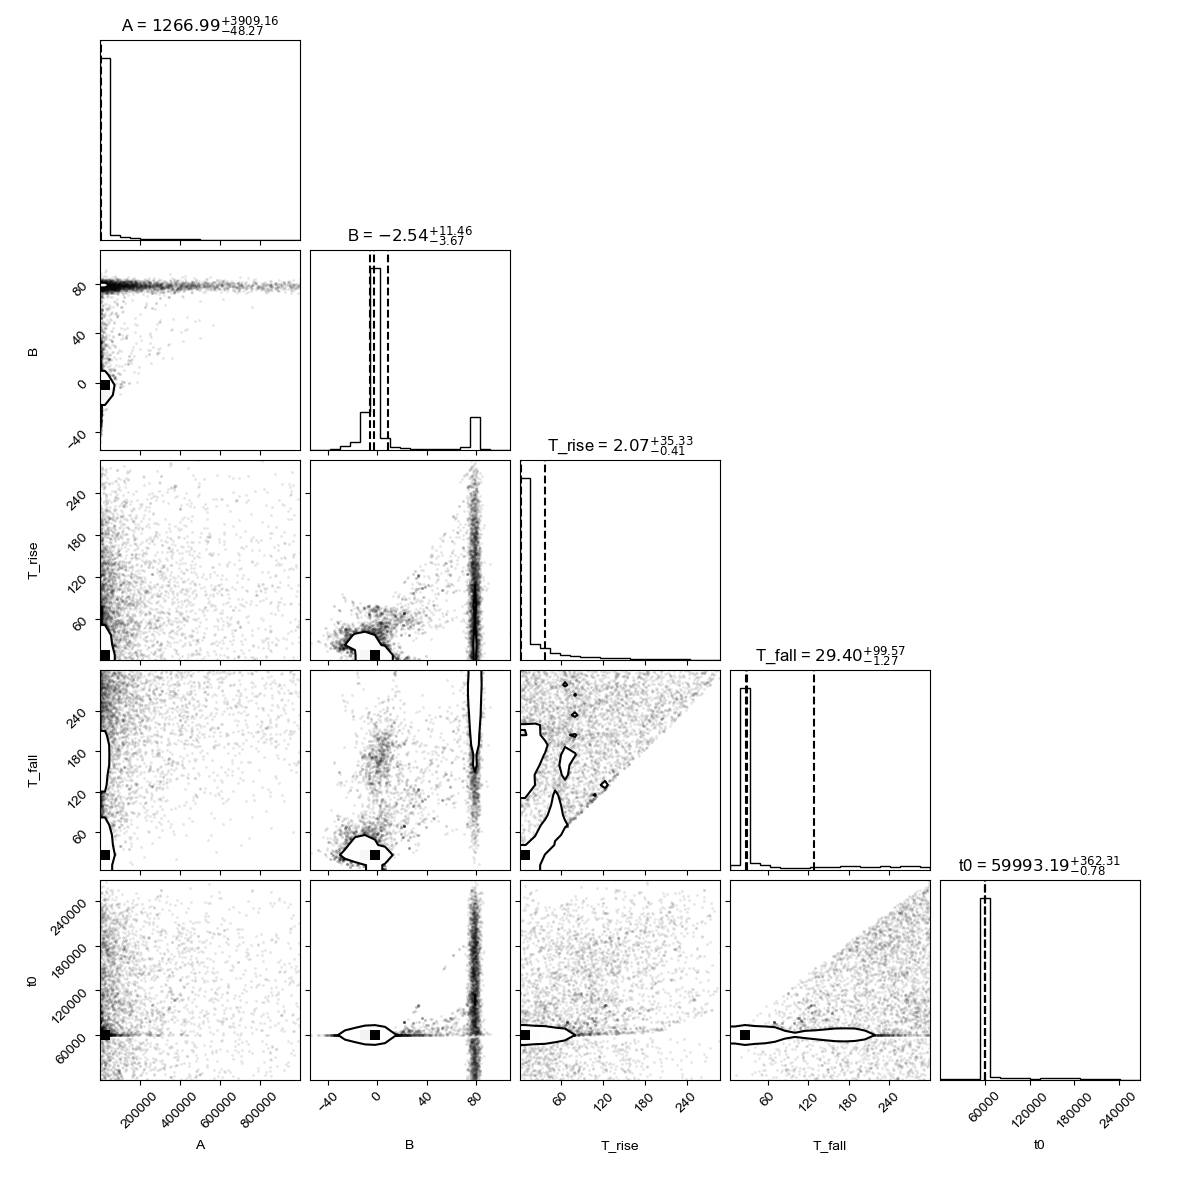
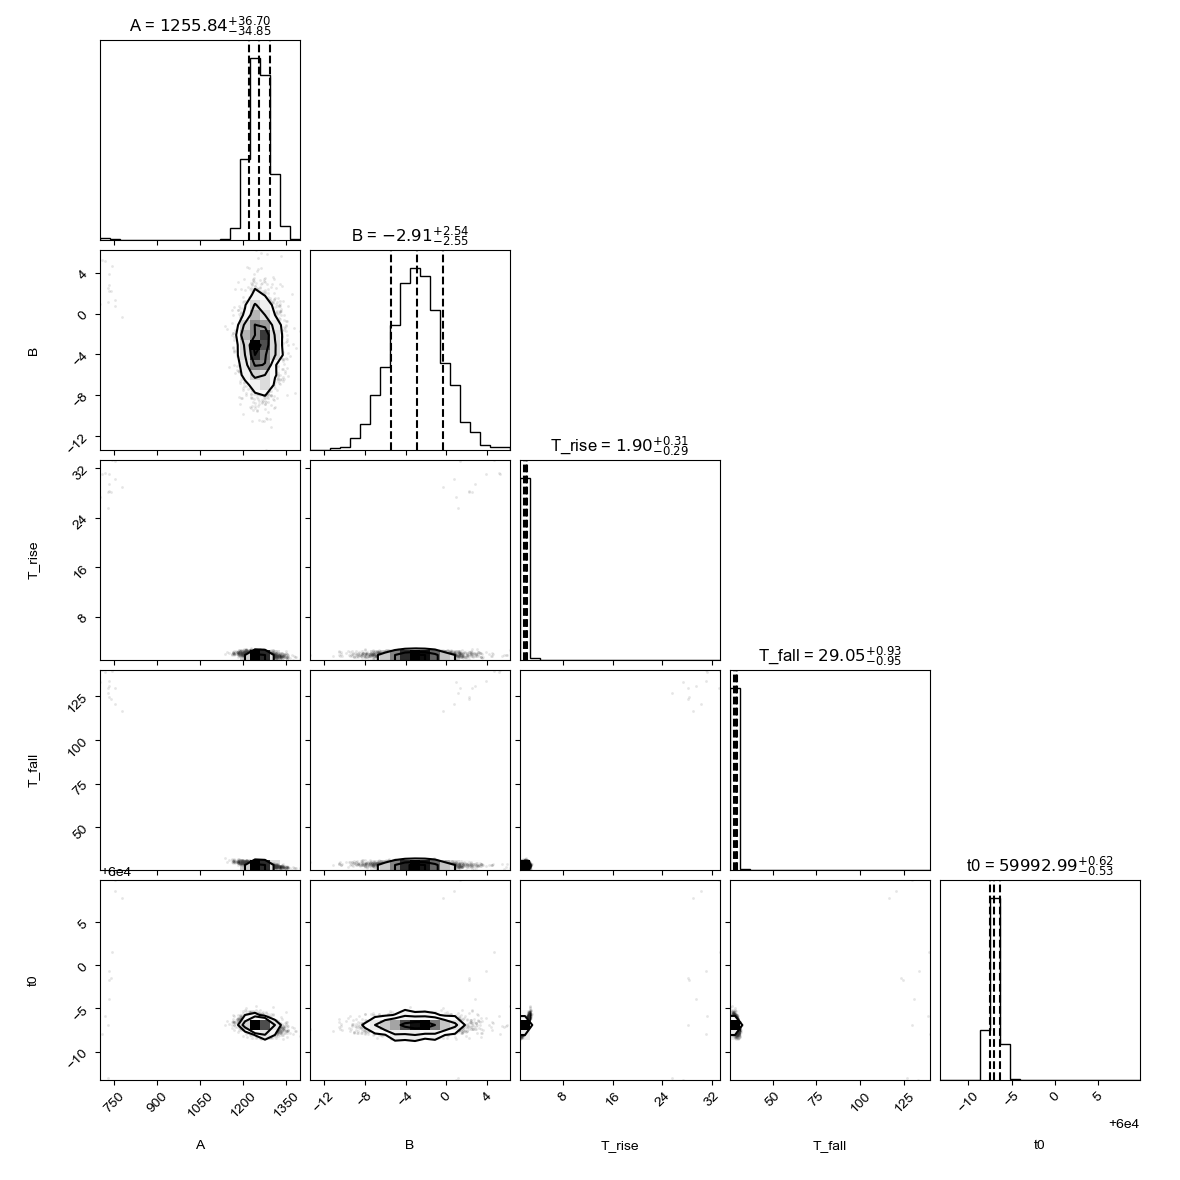
cut price boojum

diff --git a/SNIPER.py b/SNIPER.py
@@ -48,10 +48,10 @@ plt.rcParams["font.family"] = "Arial"
 config_cleaned_lc_directory = "/Users/thomasmoore/Desktop/SNIPER_DEV/ATLAS_TDEs/"
 MJD_minus = 800
 MJD_plus = 800
-nwalkers_bazin = 2000
+nwalkers_bazin = 100
 nsteps_bazin = 5000
 
-nwalkers_fireball = 1000
+nwalkers_fireball = 100
 nsteps_fireball = 10000
 
 progress = True
@@ -547,7 +547,7 @@ def fit_bazin(**kwargs):
     pos2 = float(priors[1]) + 1 * np.random.randn(nwalkers)
     pos3 = float(priors[2]) + 5 * np.random.randn(nwalkers)
     pos4 = float(priors[3]) + 10 * np.random.randn(nwalkers)
-    pos5 = float(priors[4]) + 250 * np.random.randn(nwalkers)
+    pos5 = float(priors[4]) + 5 * np.random.randn(nwalkers)
     pos = [pos1, pos2, pos3, pos4, pos5]
     pos = np.transpose(pos)
 
@@ -693,7 +693,7 @@ def fit_fireball(**kwargs):
     #  a, T_exp_pow, n
     pos = np.zeros((nwalkers, ndim))
     pos[:, 0] = float(priors[0]) + 5 * np.random.randn(nwalkers)
-    pos[:, 1] = float(priors[1]) + 1000 * np.random.randn(nwalkers)
+    pos[:, 1] = float(priors[1]) + 1 * np.random.randn(nwalkers)
     pos[:, 2] = float(priors[2]) + 0.5 * np.random.randn(nwalkers)
 
     sampler = emcee.EnsembleSampler(
@@ -765,6 +765,8 @@ def fit_fireball(**kwargs):
         plt.errorbar(x_global, y_global, yerr, fmt=".", color="grey", capsize=0)
         plt.plot([], [], color="mediumorchid", alpha=0.9, label="Fireball Evaluations")
         plt.vlines(time_explode, 0, 100, color="k")
+        plt.vlines(t_min, 0, 100, color="r", label="t min")
+        plt.vlines(t_max, 0, 100, color="b", label="t max")
         plt.ylabel(r" Flux Density [$\rm \mu Jy$]")
         plt.xlabel(r"time [mjd]")
         plt.legend(frameon=False)
@@ -885,6 +887,26 @@ for object in tqdm(IAU_list["IAU_NAME"], leave=False):
         linestyle="-",
         label="Bazin",
     )
+
+    # setting max and min for outputplot
+    baz_max = np.nanmean(bazin_results[6])
+    print("baz_max =", baz_max)
+    t_min_plot, t_max_plot = [], []
+    for x in x_range:
+        if t_min_plot == []:
+            if bazin(x, A, B, T_rise, T_fall, t0) > 0.05 * baz_max:
+                t_min_plot = x
+        if t_max_plot == [] & t_min_plot is not None:
+            if bazin(x, A, B, T_rise, T_fall, t0) < 0.05 * baz_max:
+                t_max_plot = x
+
+    if t_max_plot == []:
+        t_max_plot = np.max(x)
+
+    print("tmax tmin", t_min_plot, t_max_plot)
+
+    ax.set_xlim(t_min_plot, t_max_plot)
+    ax.set_ylim(-10, 1.05 * baz_max)
 
     # removing lightucurve after max light
 
